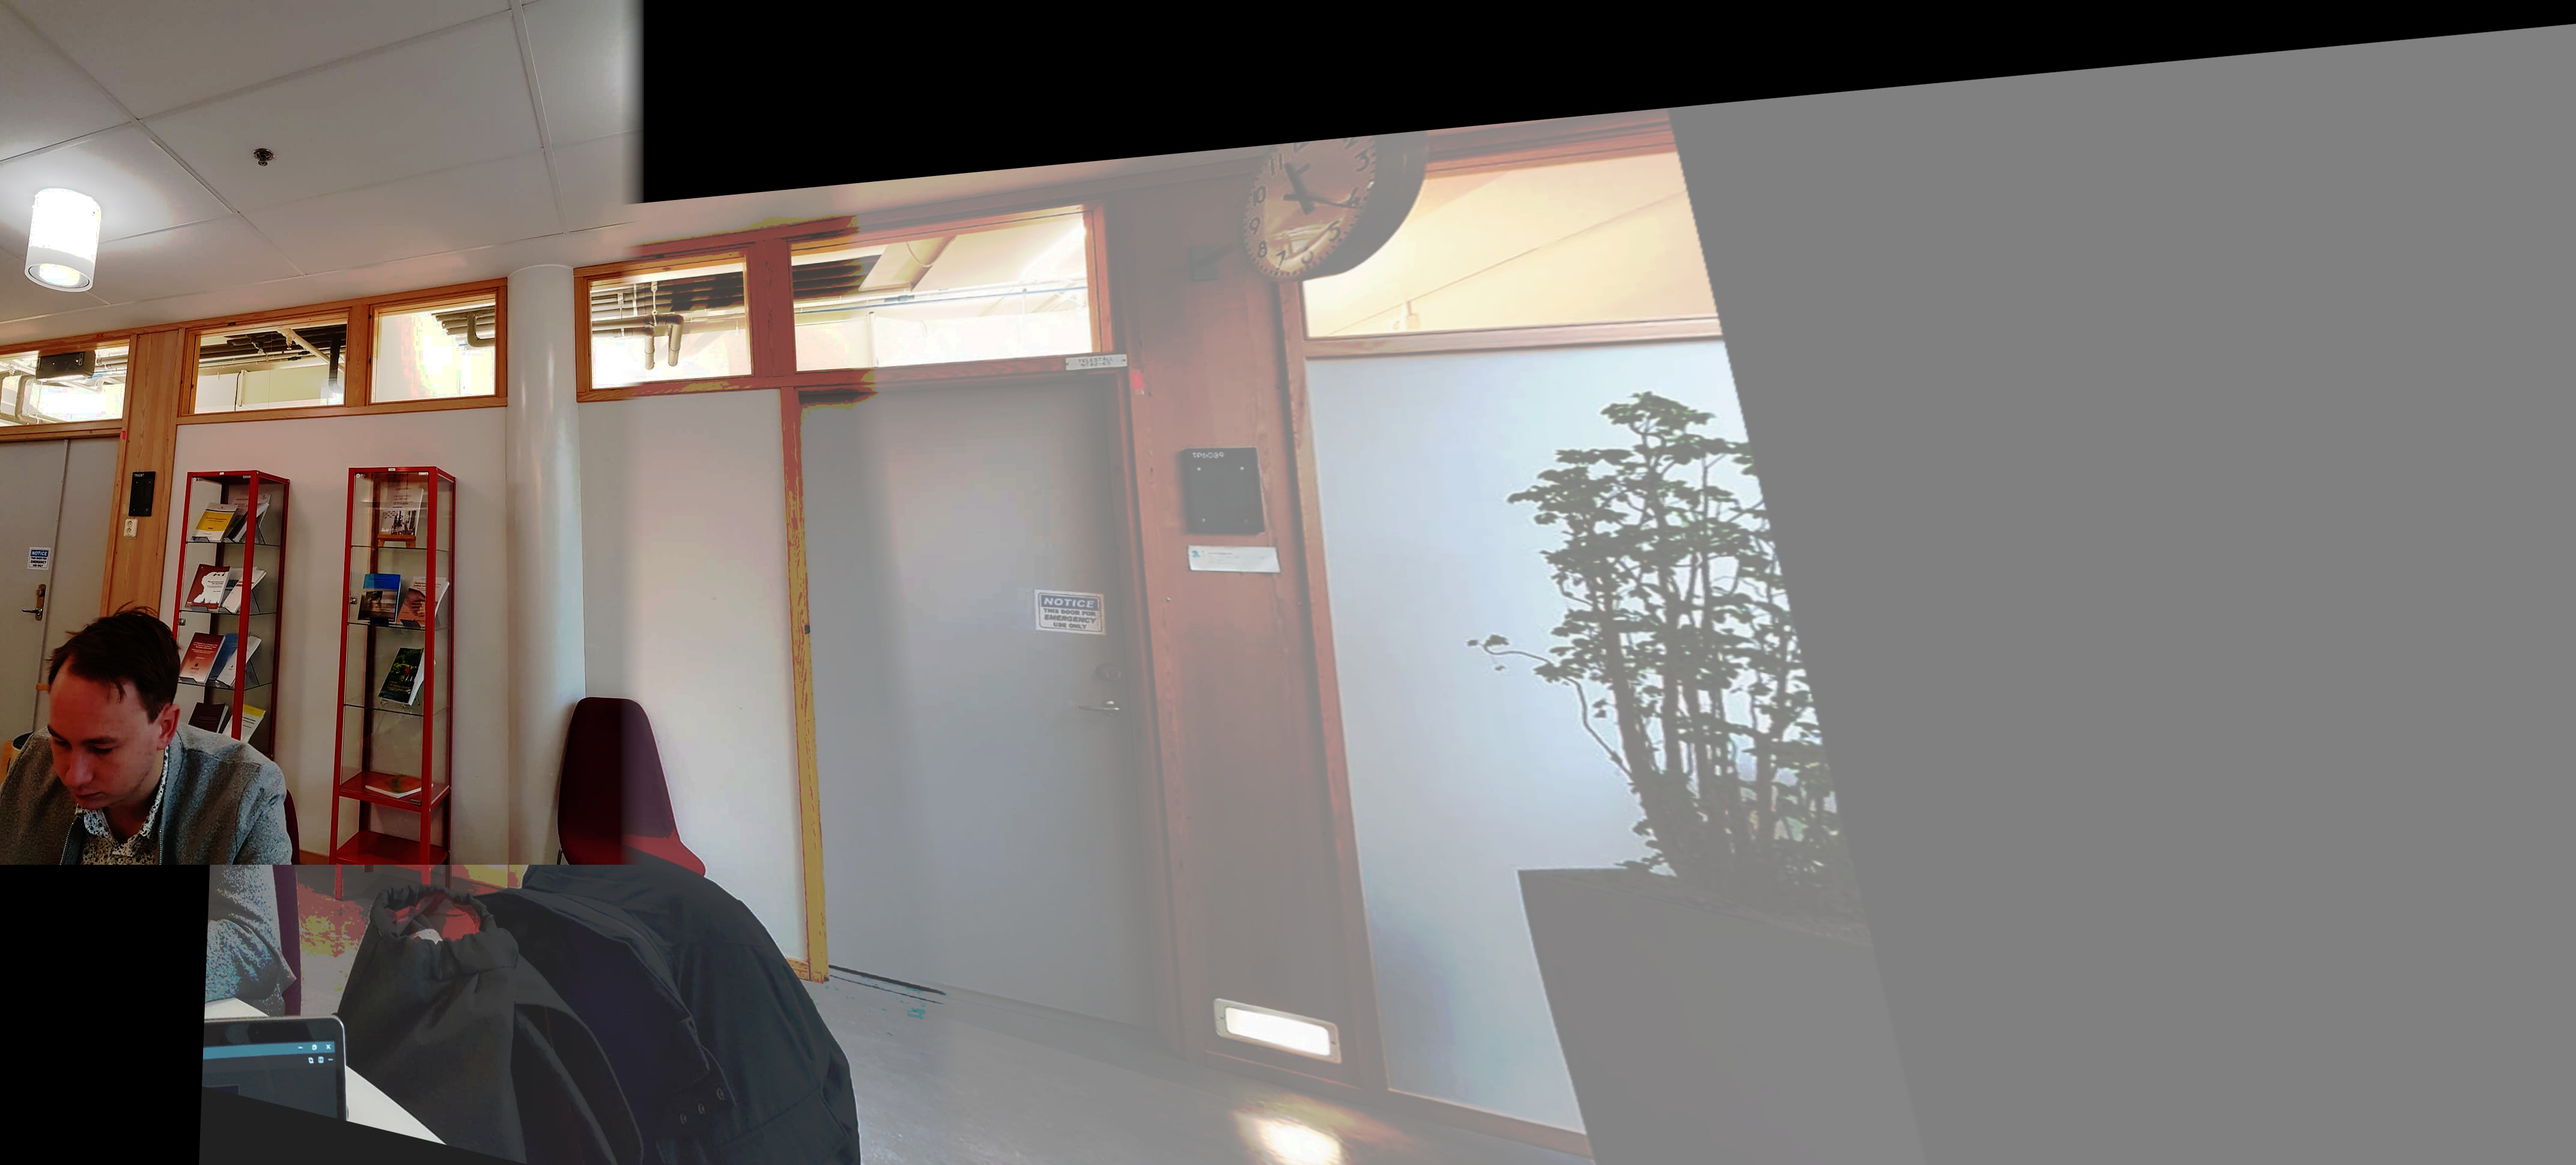
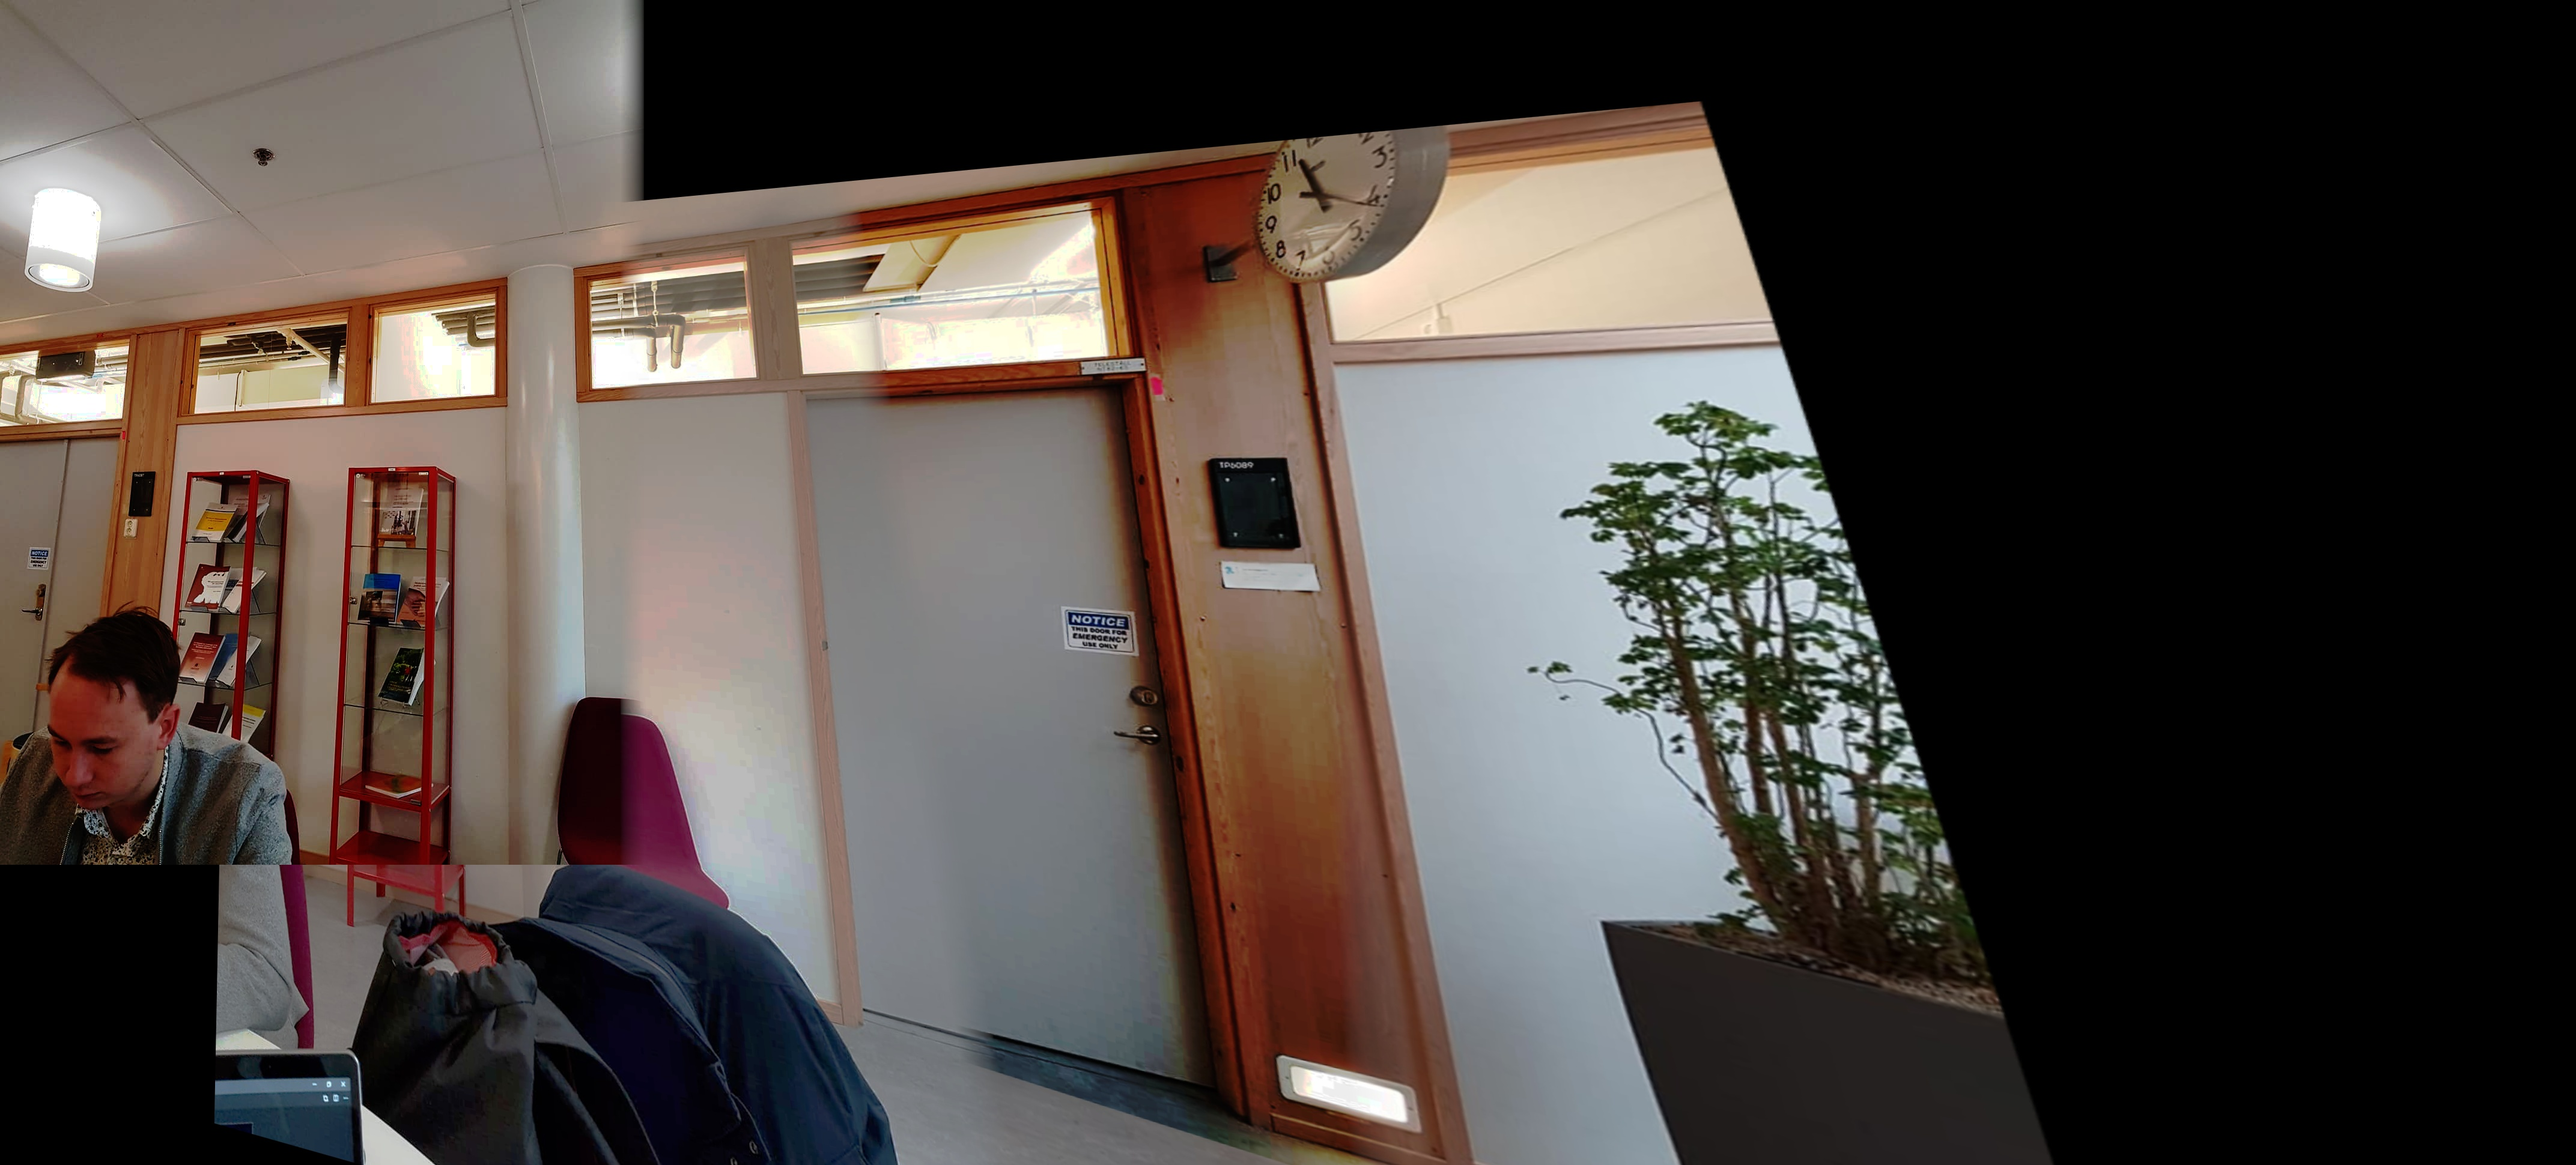
fixed color correction bug

diff --git a/imagestitching.py b/imagestitching.py
@@ -8,11 +8,11 @@ import image_hist
 import random
 import math
 
+
 def stitching(img_, img):
     # Convert images to greyscale
     #img_ = cv2.imread('./Images/right2.JPG')
     #img = cv2.imread('./Images/left2.JPG')
-
 
     img1 = cv2.cvtColor(img_, cv2.COLOR_BGR2GRAY)
     img2 = cv2.cvtColor(img, cv2.COLOR_BGR2GRAY)
@@ -33,7 +33,6 @@ def stitching(img_, img):
             good.append(m)
             matches = np.asarray(good)
 
-
     # Image alignment
     if len(matches[:, 0]) >= 4:
         src = np.float32(
@@ -45,35 +44,33 @@ def stitching(img_, img):
     else:
         raise AssertionError("Cant' find enough keypoints")
 
-
-    img_output = np.uint8(image_hist.hist_match(img_, img))
-
+    img_output = img_
+    # np.uint8(image_hist.hist_match(img_, img))
 
     img_output2 = img
-
 
     # Stitching
     dst = cv2.warpPerspective(
         img_output, H, (img.shape[1] + img_.shape[1], img.shape[0] + 500))
     #plt.subplot(122), plt.imshow(dst), plt.title('Warped Image')
-    #plt.show()
-    #plt.figure()
+    # plt.show()
+    # plt.figure()
     # dst[0:img.shape[0], 0:img.shape[1]] = img_output2
 
-    #plt.imshow(dst)
-    #plt.show()
+    # plt.imshow(dst)
+    # plt.show()
     seamWitdh = 40
     # Taking random pixel from left/right image in a 20px width
     startLength = img.shape[1]-seamWitdh
     dst[0:img.shape[0], 0:startLength] = img_output2[0:img.shape[0], 0:startLength]
-    #plt.imshow(dst)
-    #plt.show()
+    # plt.imshow(dst)
+    # plt.show()
     rnd = 0
     weightLeft = 1
     weightRight = 0.0
     step = 1/seamWitdh
     for x in range(startLength, img.shape[1]):
-        #print(weightRight)
+        # print(weightRight)
         for y in range(img.shape[0]):
             dst[y, x, 0] = (math.sqrt(
                 ((weightLeft*(int(img_output2[y, x, 0])**2))+(weightRight*(int(dst[y, x, 0])**2)))))
@@ -91,7 +88,6 @@ def stitching(img_, img):
         weightRight += step
         weightLeft = 1-weightRight
 
-
     # blurred_img = cv2.medianBlur(dst, 3)
     # blurred_img = cv2.GaussianBlur(dst, (5, 1), 0)
     blurred_img = cv2.bilateralFilter(dst, 5, 35, 35)
@@ -99,11 +95,10 @@ def stitching(img_, img):
     mask = cv2.rectangle(
         mask, (img.shape[1]-25, 0), (img.shape[1], img.shape[0]), (255, 255, 255), -1)
 
-
     out = np.where(mask == (0, 0, 0), dst, blurred_img)
 
     cv2.imwrite('output.jpg', dst)
-    #plt.imshow(dst)
-    #plt.show()
+    # plt.imshow(dst)
+    # plt.show()
 
     return dst

diff --git a/main.py b/main.py
@@ -6,7 +6,7 @@ import imagestitching
 import image_hist
 
 images = [
-    #cv2.cvtColor(cv2.imread('./Images/right.jpg'), cv2.COLOR_BGR2GRAY), 
+    #cv2.cvtColor(cv2.imread('./Images/right.jpg'), cv2.COLOR_BGR2GRAY),
     #cv2.cvtColor(cv2.imread('./Images/left.jpg'), cv2.COLOR_BGR2GRAY)
     cv2.imread('./Images/multipleTest1.jpg'),
     cv2.imread('./Images/multipleTest2.jpg'),
@@ -28,13 +28,12 @@ for img in images[1:]:
     images[counter] = np.uint8(image_hist.hist_match(img, images[0]))
 
 
-
 # Stitch the images together
 for img in images[1:]:
     finalimg = imagestitching.stitching(finalimg, img)
     imgList.append(finalimg)
 
-#print(len(imgList))
+# print(len(imgList))
 
 
 plt.subplot(122), plt.imshow(imgList[0]), plt.title('img 1')
@@ -45,15 +44,5 @@ plt.subplot(122), plt.imshow(imgList[1]), plt.title('img 2')
 plt.show()
 plt.figure()
 
-plt.subplot(122), plt.imshow(imgList[2]), plt.title('img 3')
-plt.show()
-plt.figure()
 
-plt.subplot(122), plt.imshow(imgList[3]), plt.title('Warped Image')
-plt.show()
-plt.figure()
-
-
-cv2.imwrite('test.jpg', finalimg) 
-
-    
+cv2.imwrite('test.jpg', finalimg)
